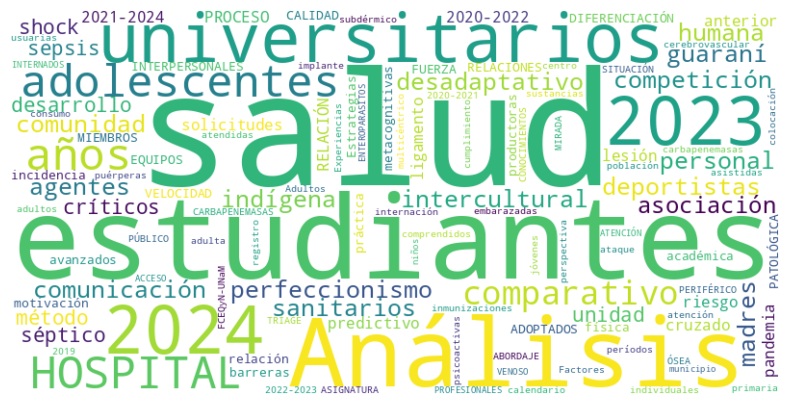
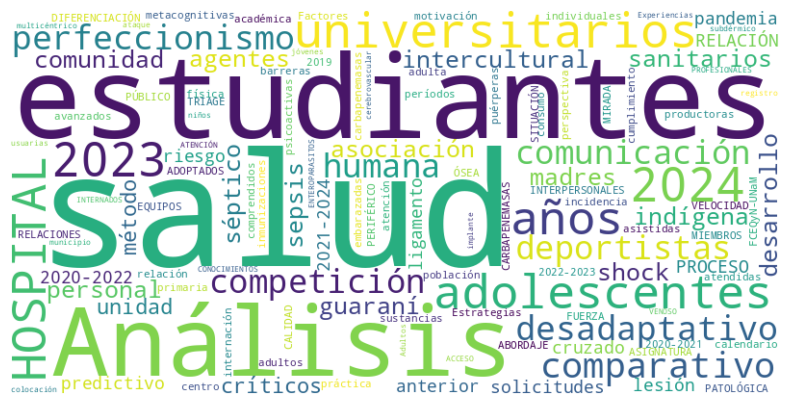
update tabs

diff --git a/main.py b/main.py
@@ -252,16 +252,18 @@ st.header("Nube de palabras segun los Proyectos")
 import streamlit as st
 import streamlit_shadcn_ui as ui
 
-value = ui.tabs(options=['2019', '2024'], default_value='2019', key="kanaries")
+value = ui.tabs(options=['2019','2020','2021','2022','2023','2024'], default_value='2019', key="kanaries")
 
 with ui.card(key="image"):
     if value == "2019":
-        st.image("prueba1.png", caption="PyGWalker", use_column_width=True)
+        st.image("nube2019.png", caption="PyGWalker", use_column_width=True)
         ui.element("link_button", text=value + " Github", url="https://github.com/Kanaries/pygwalker", className="mt-2", key="btn2")
     elif value == "2024":
         st.image("nube2024.png", caption="PyGWalker", use_column_width=True)
         #ui.element("img", src="https://pub-8e7aa5bf51e049199c78b4bc744533f8.r2.dev/graphic-walker-banner.png", className="w-full")
         ui.element("link_button", text=value + " Github", url="https://github.com/Kanaries/graphic-walker", className="mt-2", key="btn2")
-
+    elif value == '2020':
+        st.image("nube2020.png",caption="PyGWalker", use_column_width=True )
+        ui.element("link_button", text=value + " Github", url="https://github.com/Kanaries/pygwalker", className="mt-2", key="btn2")
 # Mostrar el contenido de las pestañas
 st.write(ui.tabs)
